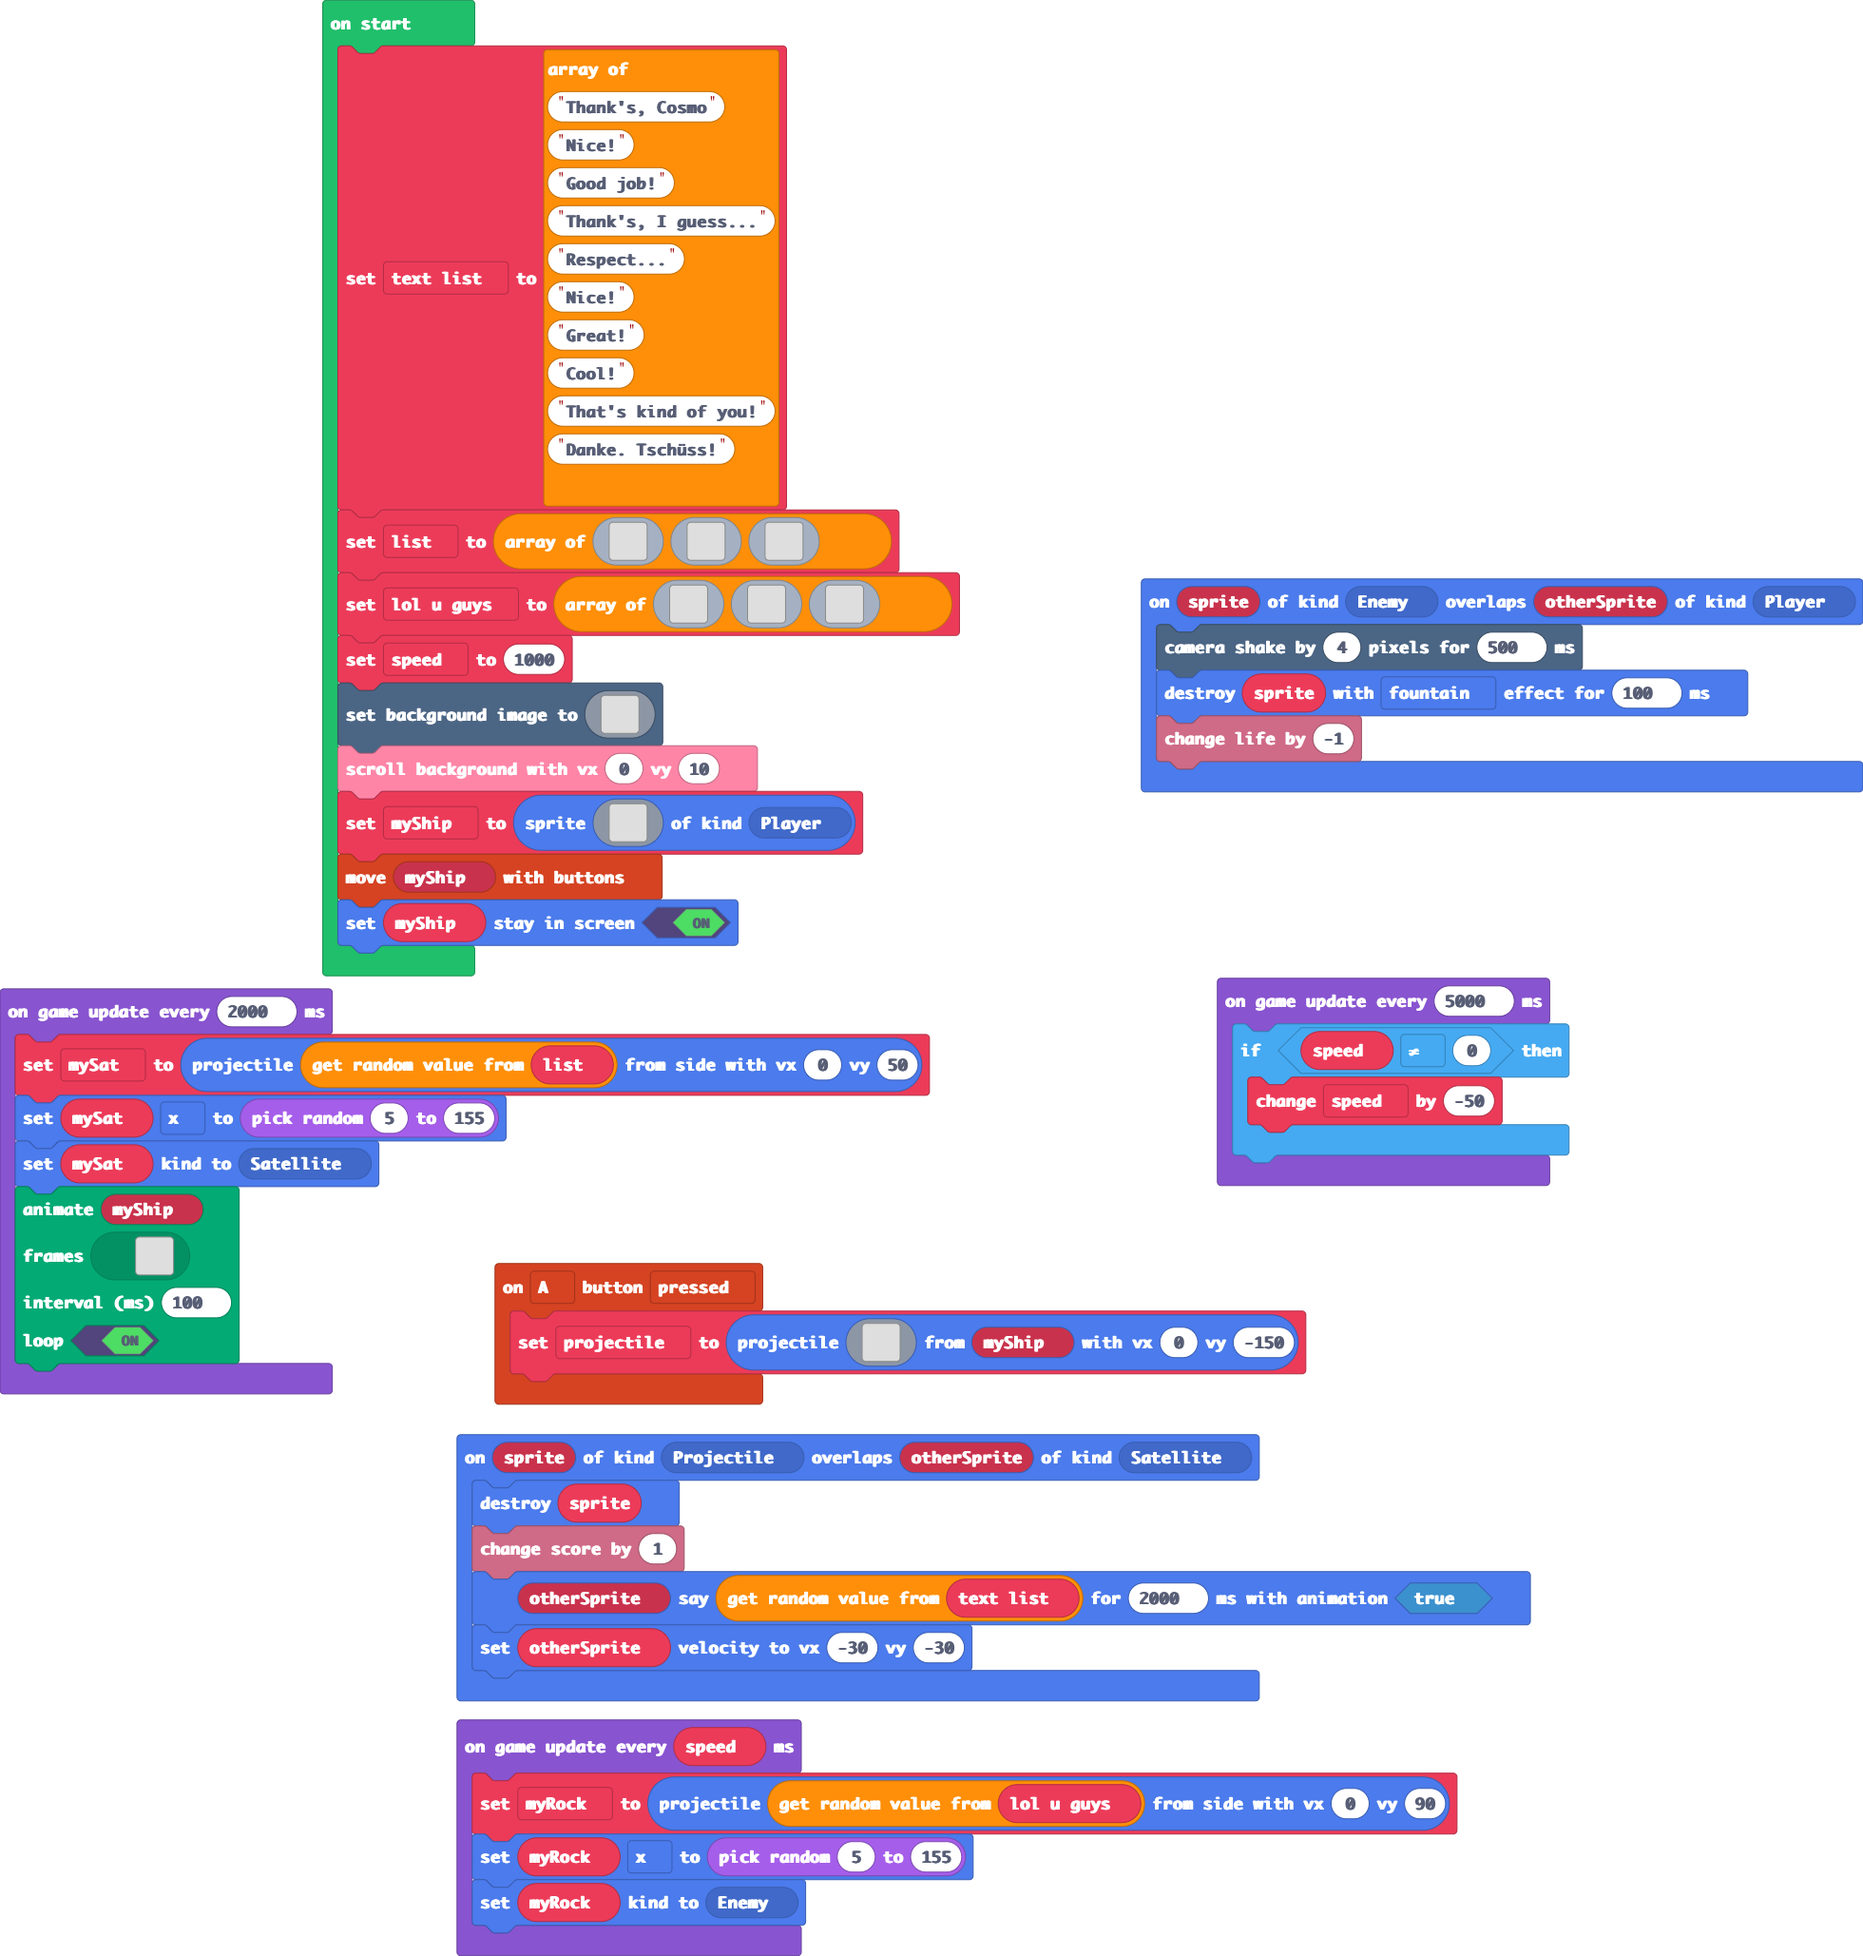
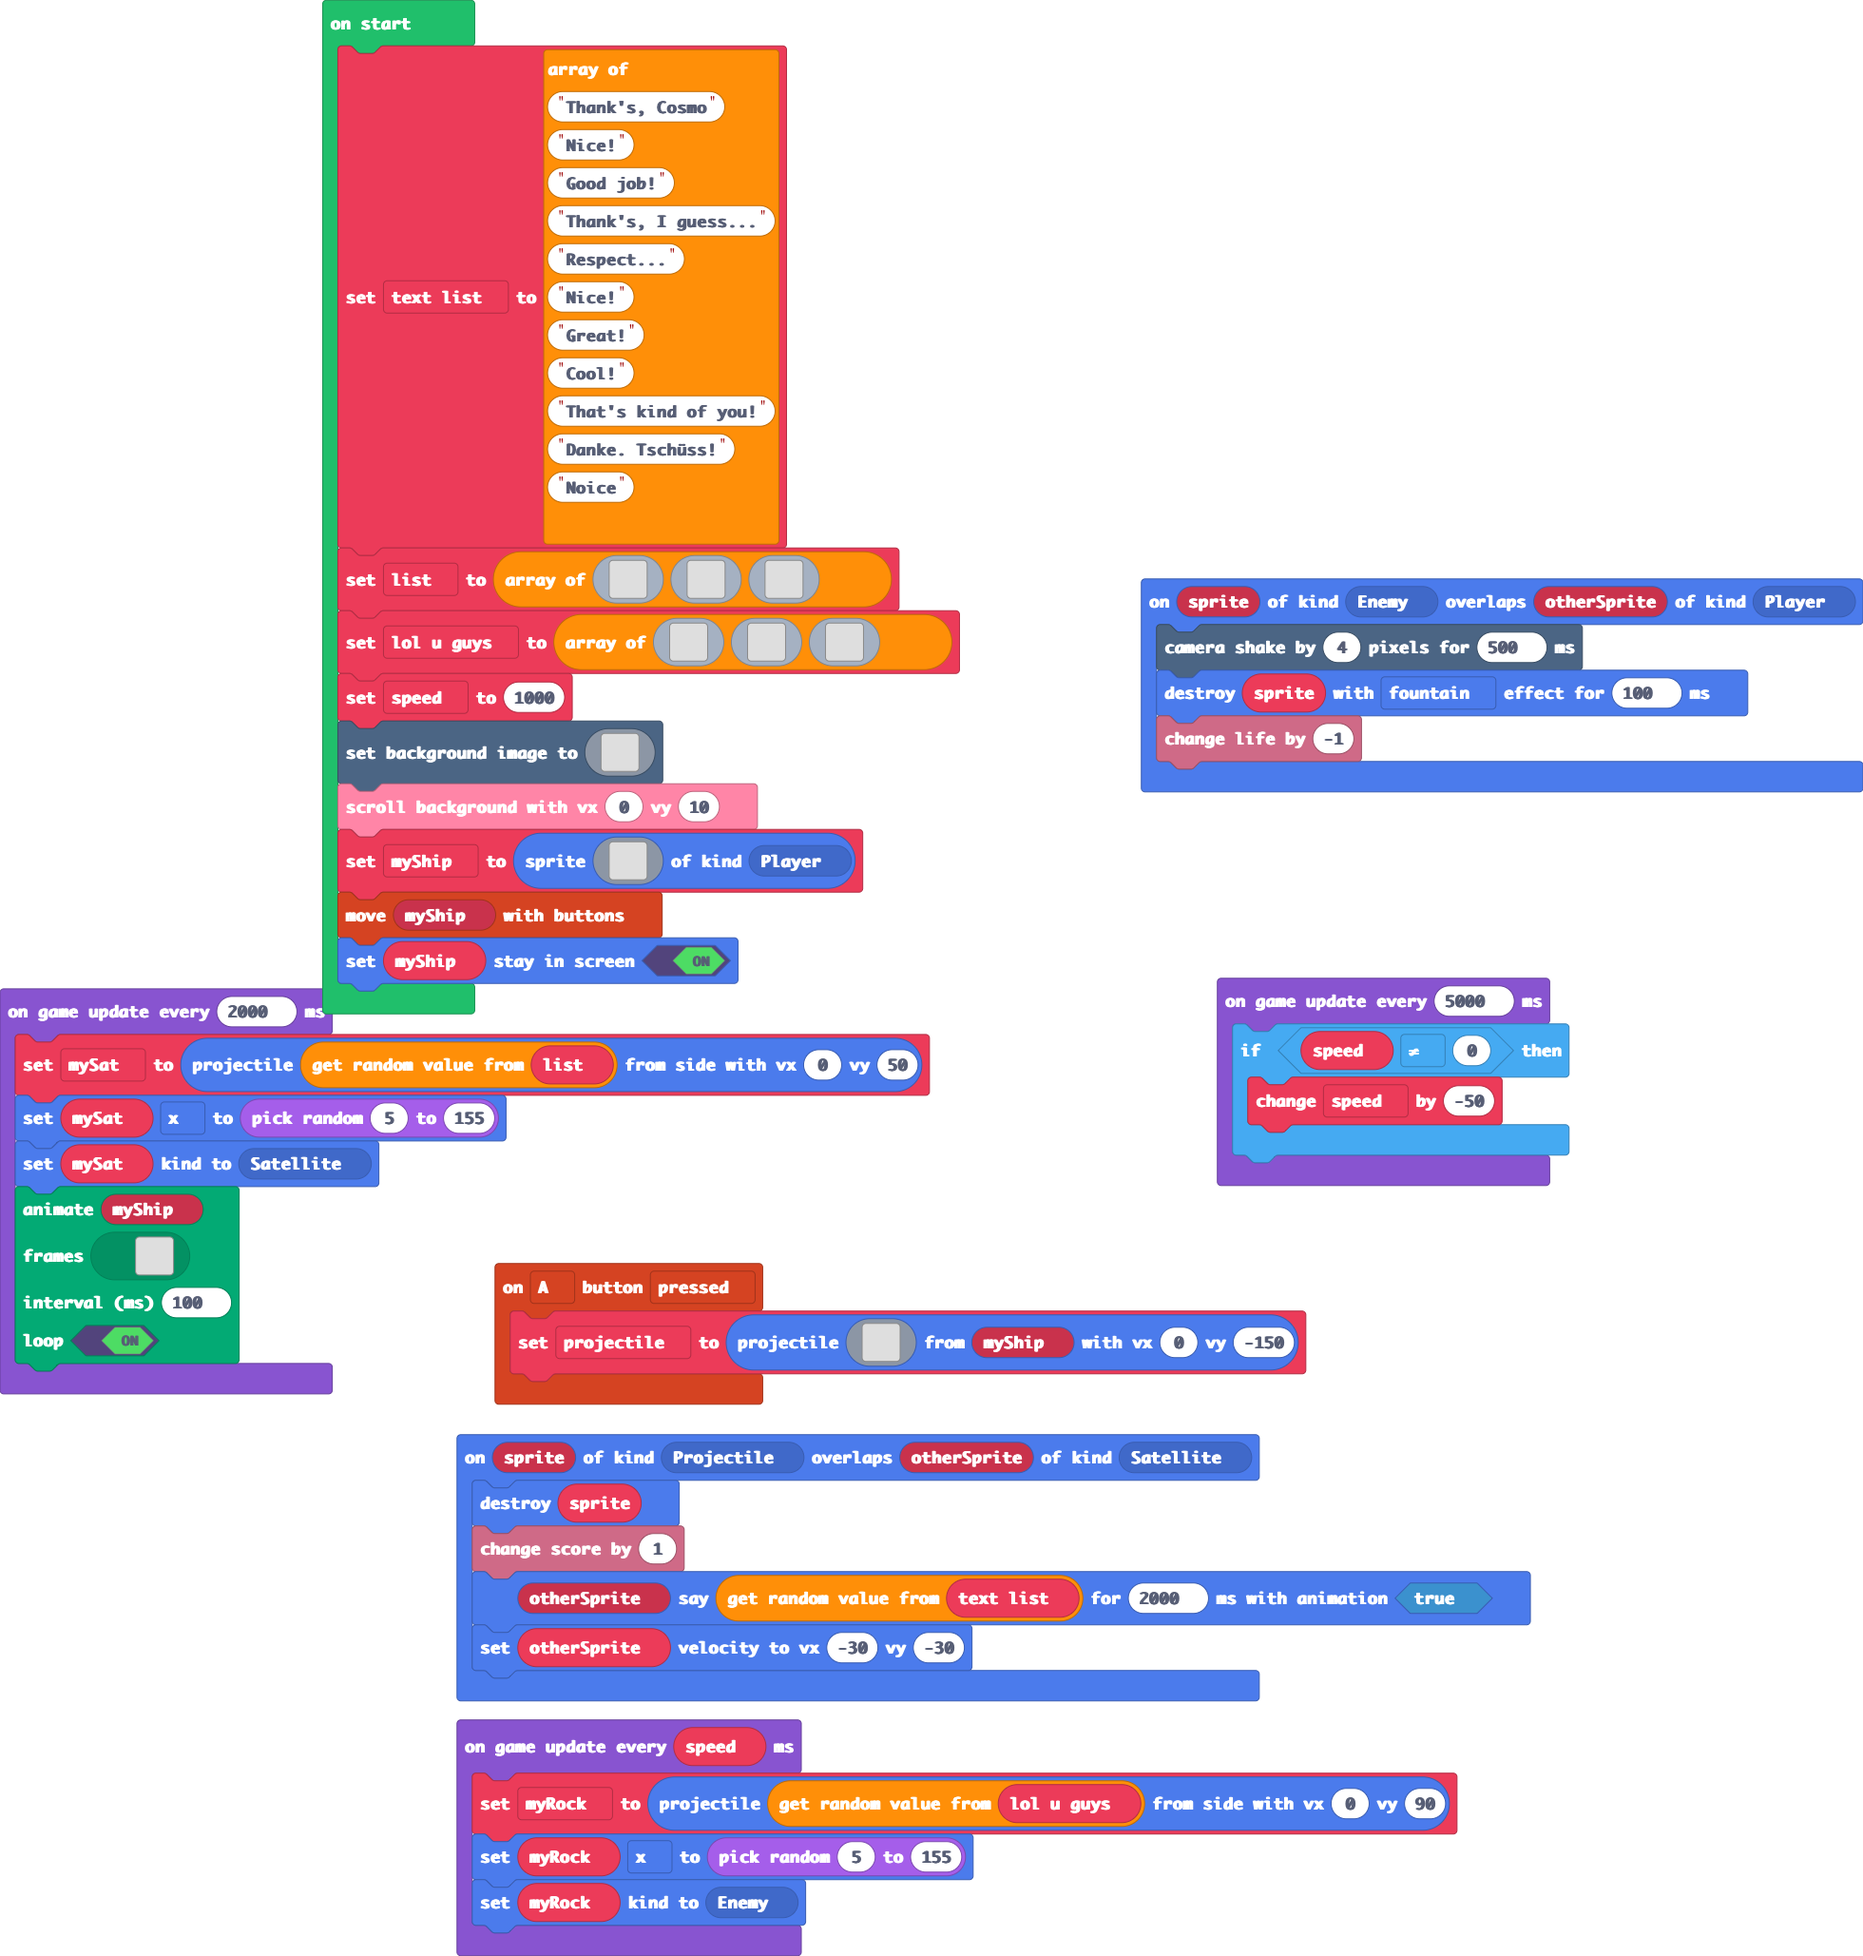
Update main.blocks, main.ts

Changed region(s): [[0.1556, 0.2178, 0.5291, 0.5289], [0.1867, 0.1245, 0.2801, 0.1556]]

diff --git a/main.ts b/main.ts
@@ -40,7 +40,8 @@ text_list = [
 "Great!",
 "Cool!",
 "That's kind of you!",
-"Danke. Tschüss!"
+"Danke. Tschüss!",
+"Noice"
 ]
 let list = [img`
     . . . . . . . 9 9 9 9 9 9 9 . . . . . . . 
